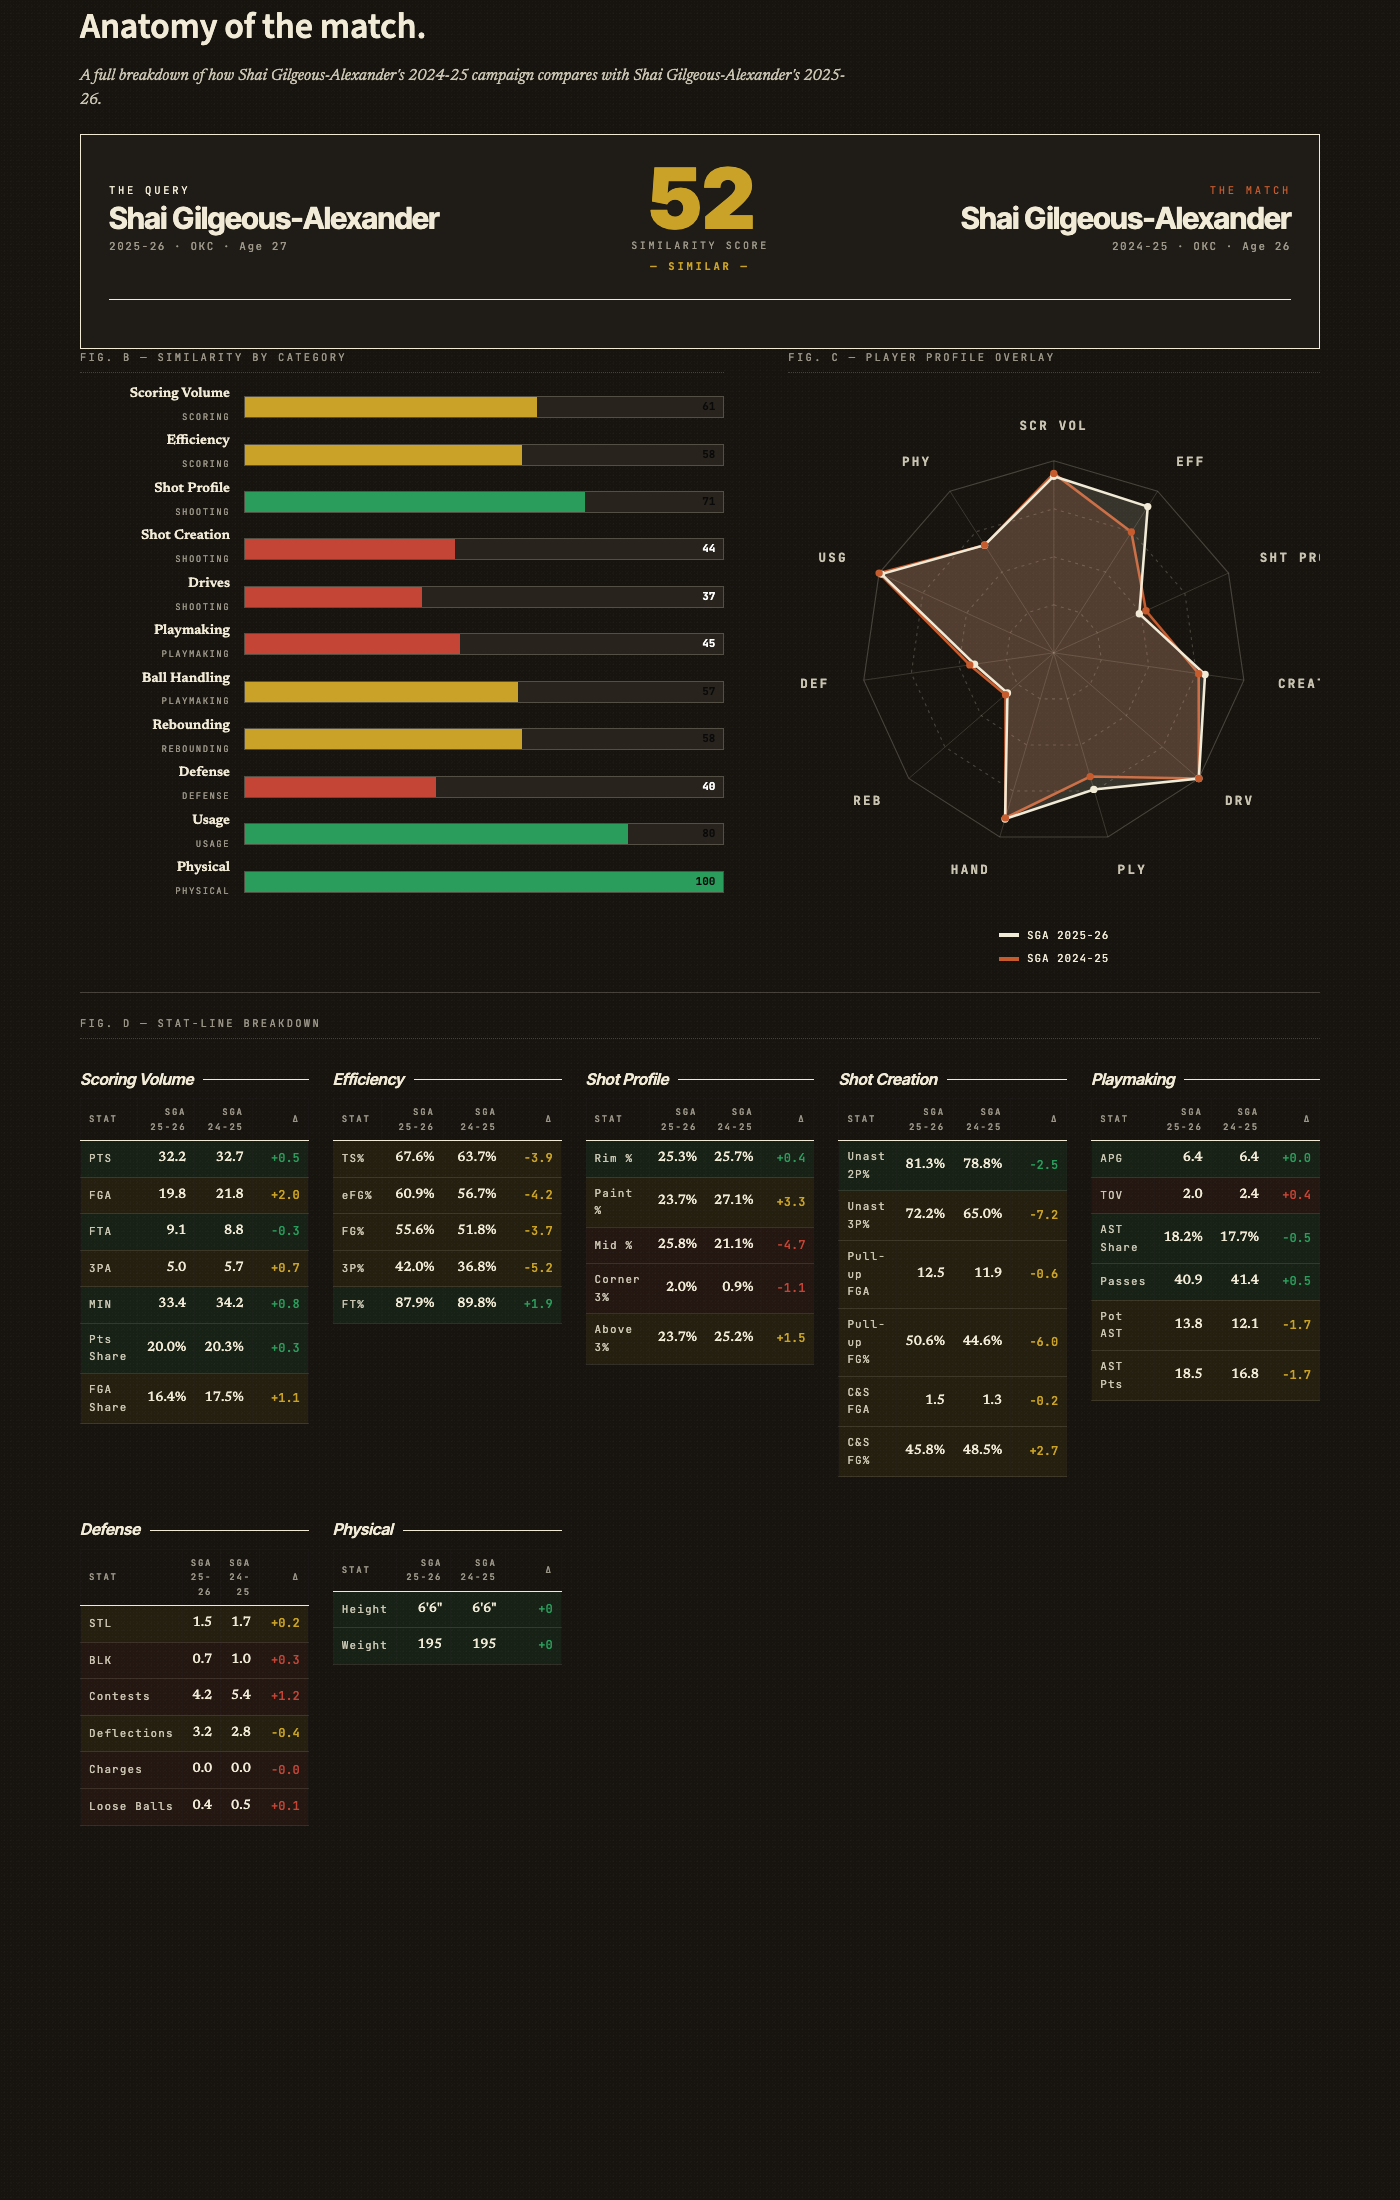
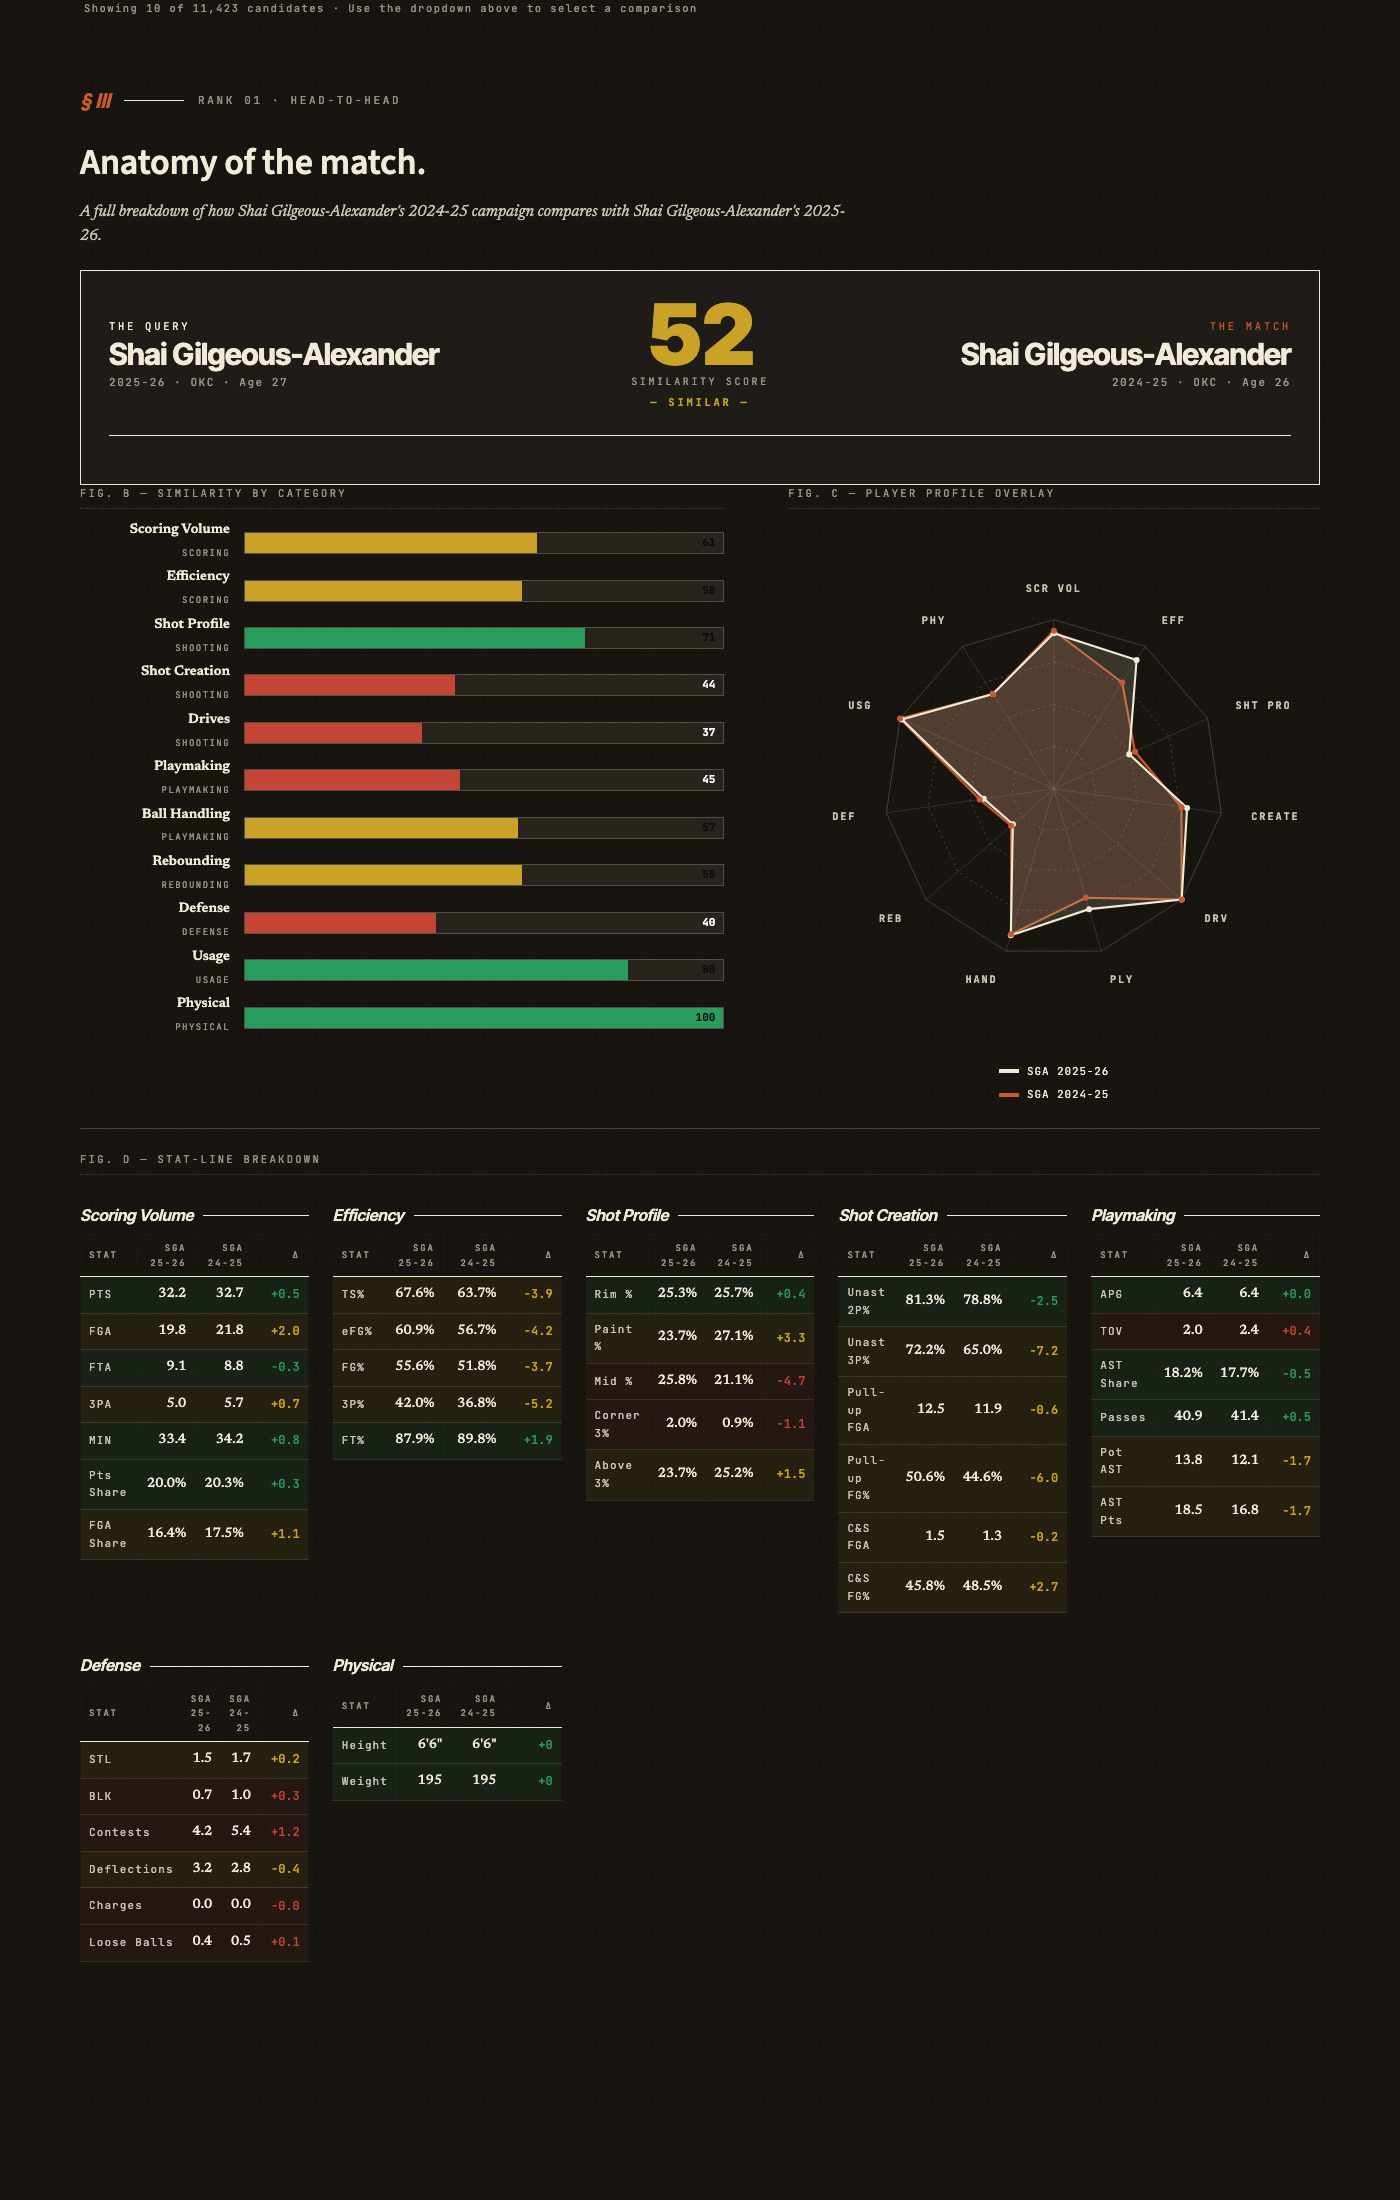
Fix radar chart clipping and anchor card layout
- Increase SVG viewBox from 360 to 440 so axis labels aren't clipped
- Remove broken anchor-card wrapper (can't span Streamlit markdown calls)
- Fix _clean() to only strip deep indentation (4+ spaces), preserving
  inline whitespace needed for readable paragraph text

diff --git a/src/app/streamlit_app.py b/src/app/streamlit_app.py
@@ -142,7 +142,7 @@ def score_color_hex(s: float) -> str:
 
 def _clean(html: str) -> str:
     """Strip leading whitespace from HTML lines to prevent Markdown code-block interpretation."""
-    return re.sub(r"\n[ \t]+", "\n", html)
+    return re.sub(r"\n[ \t]{4,}", "\n", html)
 
 
 def score_label(s: float) -> str:
@@ -1120,9 +1120,9 @@ def render_similarity_bars(group_distances: dict) -> str:
 
 
 def render_radar_svg(anchor_row, compare_row, anchor_label: str, compare_label: str) -> str:
-    size = 360
+    size = 440
     cx, cy = size / 2, size / 2
-    r = 130
+    r = 140
     N = len(DIMENSIONS)
 
     def point(val, i):
@@ -1342,9 +1342,6 @@ def main():
     col_anchor, col_editor = st.columns([1.2, 0.9], gap="large")
 
     with col_anchor:
-        # Anchor card
-        st.markdown('<div class="anchor-card"><div class="anchor-label">THE QUERY</div>', unsafe_allow_html=True)
-
         col_portrait, col_meta = st.columns([1, 2])
 
         with col_portrait:
@@ -1398,8 +1395,6 @@ def main():
         # Awards
         award_pills = get_awards_pills(player_id, anchor_season["SEASON"], cached_awards)
         render_awards(award_pills)
-
-        st.markdown('</div>', unsafe_allow_html=True)  # close anchor-card
 
     with col_editor:
         # Editor's note
